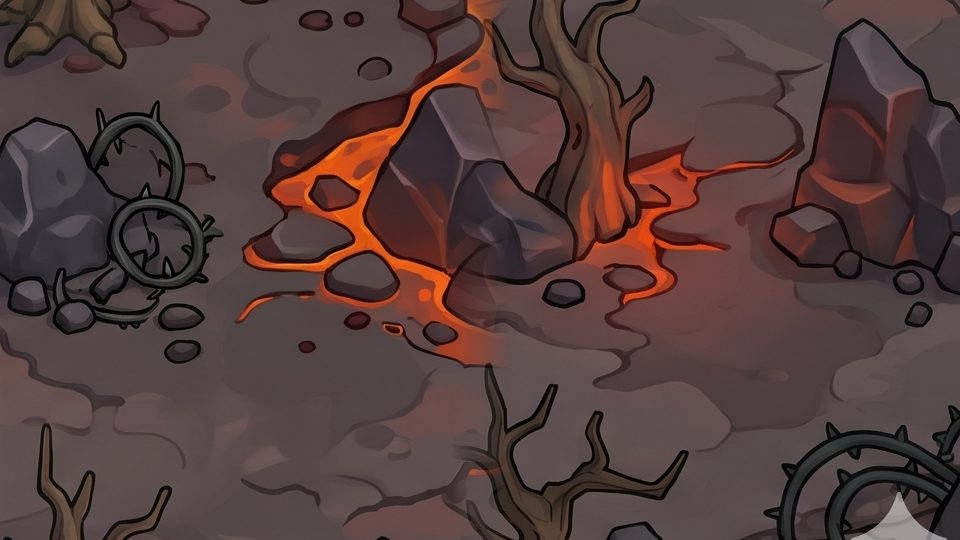
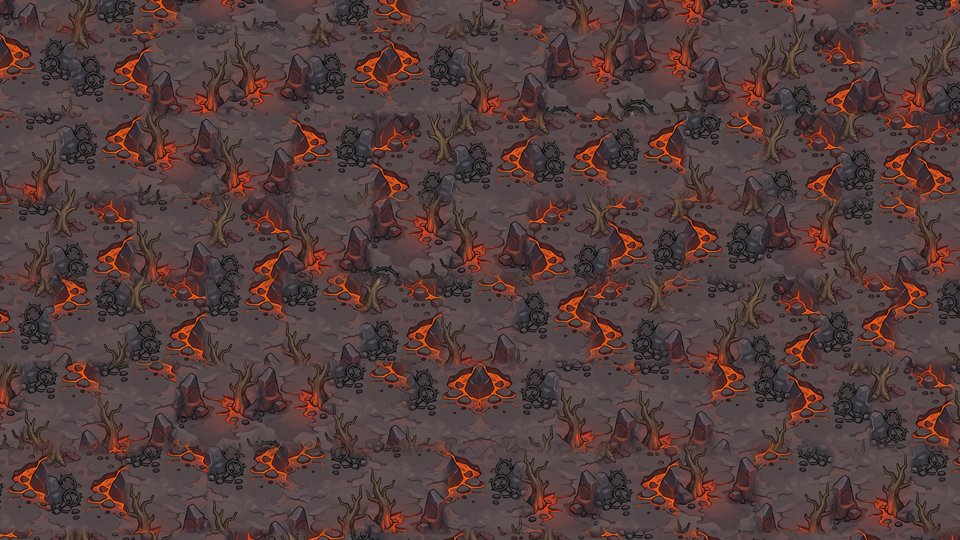
feat: 아이콘 18종 그림 적용, 배경을 작은 크기(18%)로 다시 생성

diff --git a/src/skin.ts b/src/skin.ts
@@ -33,6 +33,8 @@ export const PNG_REPLACE = ['t_archer_1', 't_archer_2', 't_archer_3', 'h_knight'
   't_barracks_1', 't_barracks_2', 't_barracks_3', 't_frost_1', 't_frost_2', 't_frost_3', 't_cannon_1', 't_cannon_2', 't_cannon_3',
   't_mage_1', 't_mage_2', 't_mage_3', 't_thunder_1', 't_thunder_2', 't_thunder_3',   // scripts/fit-sprites.py
   'h_sorc',
+  // 아이콘 그림 (etc.png, 48x48 을 0.5배로 그린다). 트로피(ic_trophy)는 그림이 없어 도형 그대로
+  ...['heart', 'coin', 'star', 'star_off', 'lock', 'pause', 'ff', 'play', 'back', 'up', 'edit', 'sound', 'mute', 'home', 'flag', 'reinf', 'sell', 'fire'].map((k) => `ic_${k}`),
 ] as const;   // spot = 건물 자리 (scripts/slice-spot.py)
 
 /** SVG 로 불러온 텍스처 키 */

diff --git a/src/scenes/GameScene.ts b/src/scenes/GameScene.ts
@@ -360,7 +360,7 @@ export class GameScene extends Phaser.Scene implements World {
     const rnd = mulberry32(this.level.id * 7919);
     if (hasBg) {
       this.add.image(0, 0, bgKey).setOrigin(0).setDepth(-11);
-      this.add.rectangle(0, 0, GAME_W, GAME_H, 0x0a1020, 0.22).setOrigin(0).setDepth(-10.5);   // 배경이 타워·길보다 튀지 않게 살짝 눌러 준다
+      this.add.rectangle(0, 0, GAME_W, GAME_H, 0x0a1020, 0.12).setOrigin(0).setDepth(-10.5);   // 배경이 타워·길보다 튀지 않게 살짝 눌러 준다
     } else {
       g.fillStyle(th.ground).fillRect(0, 0, GAME_W, GAME_H);
       for (let i = 0; i < 22; i++) {

diff --git a/scripts/slice-bg-road.py b/scripts/slice-bg-road.py
@@ -20,29 +20,48 @@ THEMES = ['meadow', 'desert', 'swamp', 'snow', 'volcano']
 GW, GH = 960, 540
 
 
+BG_SCALE = 0.18      # 원본 대비 크기. 나무 높이가 약 45px (병사 28px 보다 조금 큼)
+
+
 def bg():
-    """지역 띠(약 582x1440)에서 위치가 다른 두 곳을 좌우로 이어 붙인다 (거의 원본 크기라 나무가 타워보다 커지지 않는다)."""
+    """지역 띠(약 582x1440)를 작게 줄이고, 거기서 무작위 위치의 조각을 격자로 이어 붙여 화면을 채운다.
+    조각은 가장자리 14px 를 서로 겹쳐 섞는다 (대칭 무늬가 생기지 않도록 뒤집지 않는다)."""
     im = Image.open(os.path.join(SRC, 'bg.png')).convert('RGB')
     W, H = im.size
     sw = W / 5
-    hw = GW // 2                                 # 반쪽 폭 480
-    ys = [0, 270, 540, 788]                      # 반쪽이 시작하는 높이. 788 이하로 제한해 아래쪽 구석 로고(y>1330)를 피한다
-    pairs = [(0, 2), (1, 3), (2, 0), (3, 1)]      # (왼쪽, 오른쪽) 위치 번호. 스테이지마다 다른 조합
-    seam = 60
+    inner = int(sw) - 100                         # 띠 양옆 50px 은 이웃 지역과 섞여 있어 버린다
     os.makedirs(os.path.join(OUT, 'bg'), exist_ok=True)
-    ramp = np.clip((np.arange(GW) - (hw - seam / 2)) / seam, 0, 1)[None, :, None]
+    f = 14
     for i, th in enumerate(THEMES):
-        x0 = round(i * sw + (sw - hw) / 2)       # 띠 가운데 480px (양옆 이웃 지역과 섞인 부분은 버린다)
-        for j, (l, r) in enumerate(pairs):
-            L = np.zeros((GH, GW, 3), np.float32)
-            R = np.zeros((GH, GW, 3), np.float32)
-            cl = im.crop((x0, ys[l], x0 + hw + seam // 2, ys[l] + GH))
-            cr = im.crop((x0 - seam // 2, ys[r], x0 + hw, ys[r] + GH))
-            L[:, :hw + seam // 2] = np.array(cl)
-            R[:, hw - seam // 2:] = np.array(cr)
-            out = L * (1 - ramp) + R * ramp
-            Image.fromarray(out.astype(np.uint8)).save(os.path.join(OUT, 'bg', f'bg_{th}_{j + 1}.jpg'), quality=82, optimize=True)
-    print('bg', len(THEMES) * len(pairs))
+        x0 = round(i * sw + 50)
+        strip = im.crop((x0, 0, x0 + inner, 1330))                 # 아래쪽 구석 로고(y>1330) 제외
+        cw, chh = round(inner * BG_SCALE), round(1330 * BG_SCALE)
+        st = np.array(strip.resize((cw, chh), Image.LANCZOS)).astype(np.float32)
+        ph = 96                                                    # 조각 높이 (겹침 포함)
+        wx = np.minimum(np.arange(cw) + 1, np.arange(cw)[::-1] + 1)
+        wy = np.minimum(np.arange(ph) + 1, np.arange(ph)[::-1] + 1)
+        win = np.minimum(np.minimum(wy[:, None], wx[None, :]), f).astype(np.float32) / f + 0.02
+        for j in range(4):
+            rnd = np.random.RandomState(1000 * (i + 1) + j)
+            acc = np.zeros((GH + 3 * ph, GW + 3 * cw, 3), np.float32)
+            wsum = np.zeros((GH + 3 * ph, GW + 3 * cw, 1), np.float32)
+            # 조각을 한 줄씩 놓되 가로 간격, 세로 위치, 좌우 뒤집기를 무작위로 해서 격자 무늬가 안 보이게 한다
+            y = -rnd.randint(ph)
+            while y < GH:
+                x = -rnd.randint(cw)
+                while x < GW:
+                    yy = rnd.randint(0, chh - ph)
+                    pt = st[yy:yy + ph]
+                    if rnd.rand() < 0.5:
+                        pt = pt[:, ::-1]
+                    y0, x0_ = y + ph, x + cw                          # 버퍼 여백(ph, cw)만큼 밀어 음수 좌표를 피한다
+                    acc[y0:y0 + ph, x0_:x0_ + cw] += pt * win[..., None]
+                    wsum[y0:y0 + ph, x0_:x0_ + cw] += win[..., None]
+                    x += int(cw * rnd.uniform(0.84, 0.97))
+                y += int(ph * rnd.uniform(0.8, 0.95))
+            out = (acc / np.maximum(wsum, 1e-3))[ph:ph + GH, cw:cw + GW]
+            Image.fromarray(np.clip(out, 0, 255).astype(np.uint8)).save(os.path.join(OUT, 'bg', f'bg_{th}_{j + 1}.jpg'), quality=85, optimize=True)
+    print('bg', len(THEMES) * 4)
 
 
 def cells():

diff --git a/scripts/cut-sheets2.py b/scripts/cut-sheets2.py
@@ -22,7 +22,7 @@ def hsv(a):
     return h, d / (mx + 1e-6), mx
 
 
-def cut(sheet, name, box, clear=(), extra=None):
+def cut(sheet, name, box, clear=(), extra=None, group=4):
     """box=(x0,y0,x1,y1), clear=[(x0,y0,x1,y1)...] 영역 지움, extra(a, h, s, v, X, Y)->지울 마스크"""
     im = Image.open(os.path.join(SRC, sheet + '.png')).convert('RGBA')
     a = np.array(im)
@@ -36,7 +36,7 @@ def cut(sheet, name, box, clear=(), extra=None):
         out |= extra(h, s, v, X, Y)
     fg = ~bg & ~out
     fg = ndi.binary_opening(fg, iterations=2)
-    lab, k = ndi.label(ndi.binary_dilation(fg, iterations=4))
+    lab, k = ndi.label(ndi.binary_dilation(fg, iterations=group))
     sz = ndi.sum(fg, lab, range(1, k + 1))
     fg &= lab == int(np.argmax(sz)) + 1
     fg = ndi.binary_fill_holes(fg) & ~bg if extra is None else fg
@@ -62,3 +62,12 @@ cut('wall', 'wall_dirt_s', (1180, 570, 1700, 1040))
 cut('wall', 'wall_brick', (190, 1120, 1130, 1700))
 cut('wall', 'wall_brick_s', (1180, 1030, 1690, 1570))
 cut('wall', 'wall_metal', (230, 1600, 1560, 2320))
+
+# 아이콘 시트 etc.png: 4열 x 5행 (칸 448x480)
+ICONS = ['heart', 'coin', 'star', 'star_off', 'lock', 'pause', 'ff', 'retry', 'play', 'back', 'up', 'edit',
+         'sound', 'mute', 'home', 'home2', 'flag', 'reinf', 'sell', 'fire']
+for i, n in enumerate(ICONS):
+    c, r = i % 4, i // 4
+    # 별, 화염비는 배경색이 번진 분홍/보라 빛(색조 280~350도, 채도 0.15 이상)을 지운다
+    pink = (lambda h, s, v, X, Y: (h > 280) & (h < 350) & (s > 0.15)) if n in ('star', 'fire') else None
+    cut('etc', 'ic_' + n, (c * 448 + 4, r * 480 + 4, c * 448 + 444, r * 480 + 476), extra=pink, group={'fire': 40, 'sell': 14}.get(n, 8))

diff --git a/scripts/fit-sprites.py b/scripts/fit-sprites.py
@@ -106,11 +106,22 @@ def pack(frames: dict, foot_frac: float | None = None, low_only: bool = False):
         print(f'{n}.png  {cw}x{ch}  (그림 {f.width}x{f.height})')
 
 
+ICONS = ['heart', 'coin', 'star', 'star_off', 'lock', 'pause', 'ff', 'play', 'back', 'up', 'edit', 'sound', 'mute', 'home', 'flag', 'reinf', 'sell', 'fire']
+ICON_BOX = 44          # 48x48 캔버스 안에 이 크기로 맞춘다 (게임은 0.5배로 그려 24px)
+
+
 def main():
     for src, dst, body_h, flip, cuts in ENEMIES:
         ims = {c: load(f'{src}_{c}', flip is True or (isinstance(flip, set) and c in flip)) for c in cuts}
         s = body_h / ims[cuts[0]].height
         pack({f'{dst}_{c}': resize(im, s) for c, im in ims.items()})
+    for n in ICONS:
+        im = load('ic_' + n)
+        s = ICON_BOX / max(im.size)
+        im = resize(im, s)
+        canvas = Image.new('RGBA', (48, 48), (0, 0, 0, 0))
+        canvas.paste(im, ((48 - im.width) // 2, (48 - im.height) // 2), im)
+        canvas.save(os.path.join(OUT, f'ic_{n}.png'), optimize=True)
     for src, src_v, dst in WALLS:
         for key, name, w in ((dst, src, WALL_W), (dst + '_v', src_v or src, WALL_VS_W if src_v else WALL_V_W)):
             im = load(name)

diff --git a/CLAUDE.md b/CLAUDE.md
@@ -94,3 +94,4 @@ node scripts/balance-sim.cjs . 1,5,20 [0|1|2]   # 봇 시뮬레이션, 마지막
 - 벽 PNG: wp_wood/dirt/metal(+_v 세로). 흙·벽돌은 세로용 짧은 컷을 따로 쓴다. 벽 버튼 아이콘과 타워 건설 메뉴 아이콘은 아직 도형.
 - 건설 자리: autospots.ts clearRoad() 가 자리 그림(66x45)이 길(폭 60)에 안 닿게 밀어낸다 (levels.ts make 에서 적용).
 - 배경/길 (scripts/slice-bg-road.py, 원본 시트 bg.png, road.png 는 용량 때문에 저장소에 없음): public/skins/bg/bg_<테마>_<1~4>.jpg (스테이지 (id-1)%4+1), road/road_<테마>.png (거울 이음 타일, GameScene.drawMap 이 캔버스 패턴으로 길 모양에 칠함), road/rd_<테마>.png/json (길가 장식 아틀라스). GameScene.preload 에서 스테이지별로 불러오고, 파일이 없으면 예전 도형 배경으로 돌아간다. 배경이 있으면 벡터 나무 소품은 그리지 않는다.
+- 배경 크기: 지역 띠를 18%(BG_SCALE)로 줄여 무작위 조각을 겹쳐 붙인다 (나무 높이 약 45px, 병사 28px 보다 조금 큼). 아이콘 시트 etc.png → public/skins/png/ic_*.png 18개 (트로피는 그림 없음, 도형 유지). scripts/cut-sheets2.py → fit-sprites.py.
